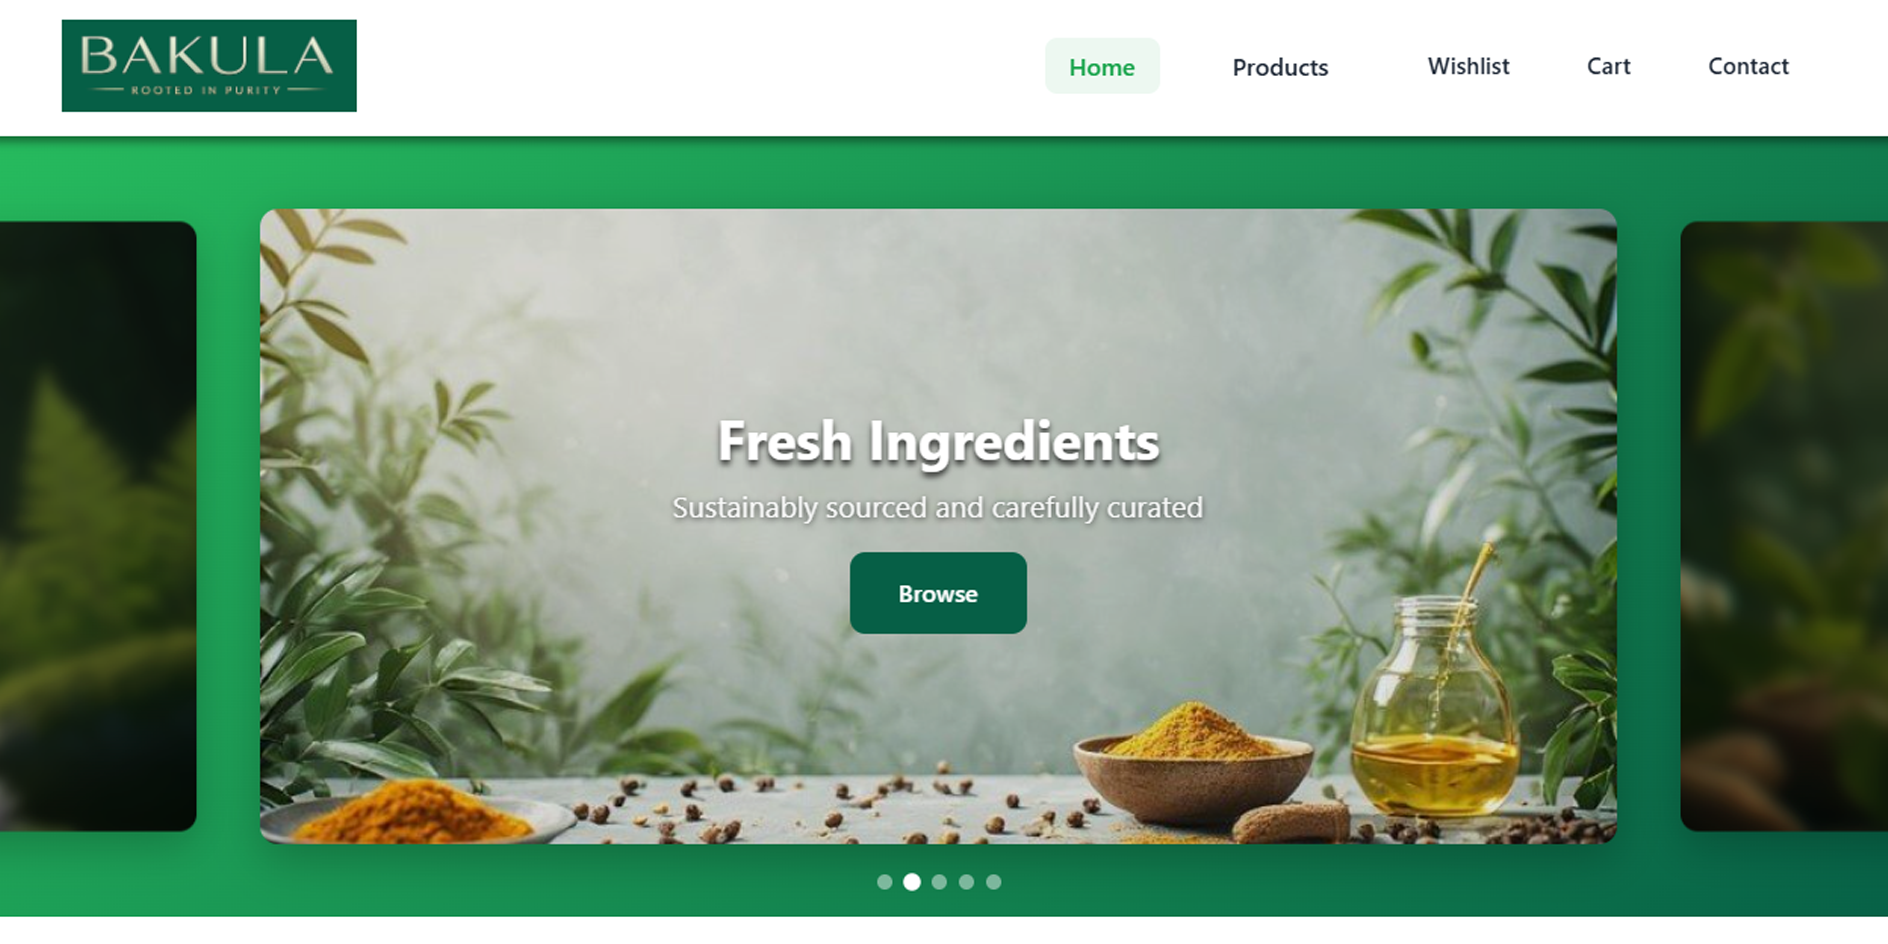
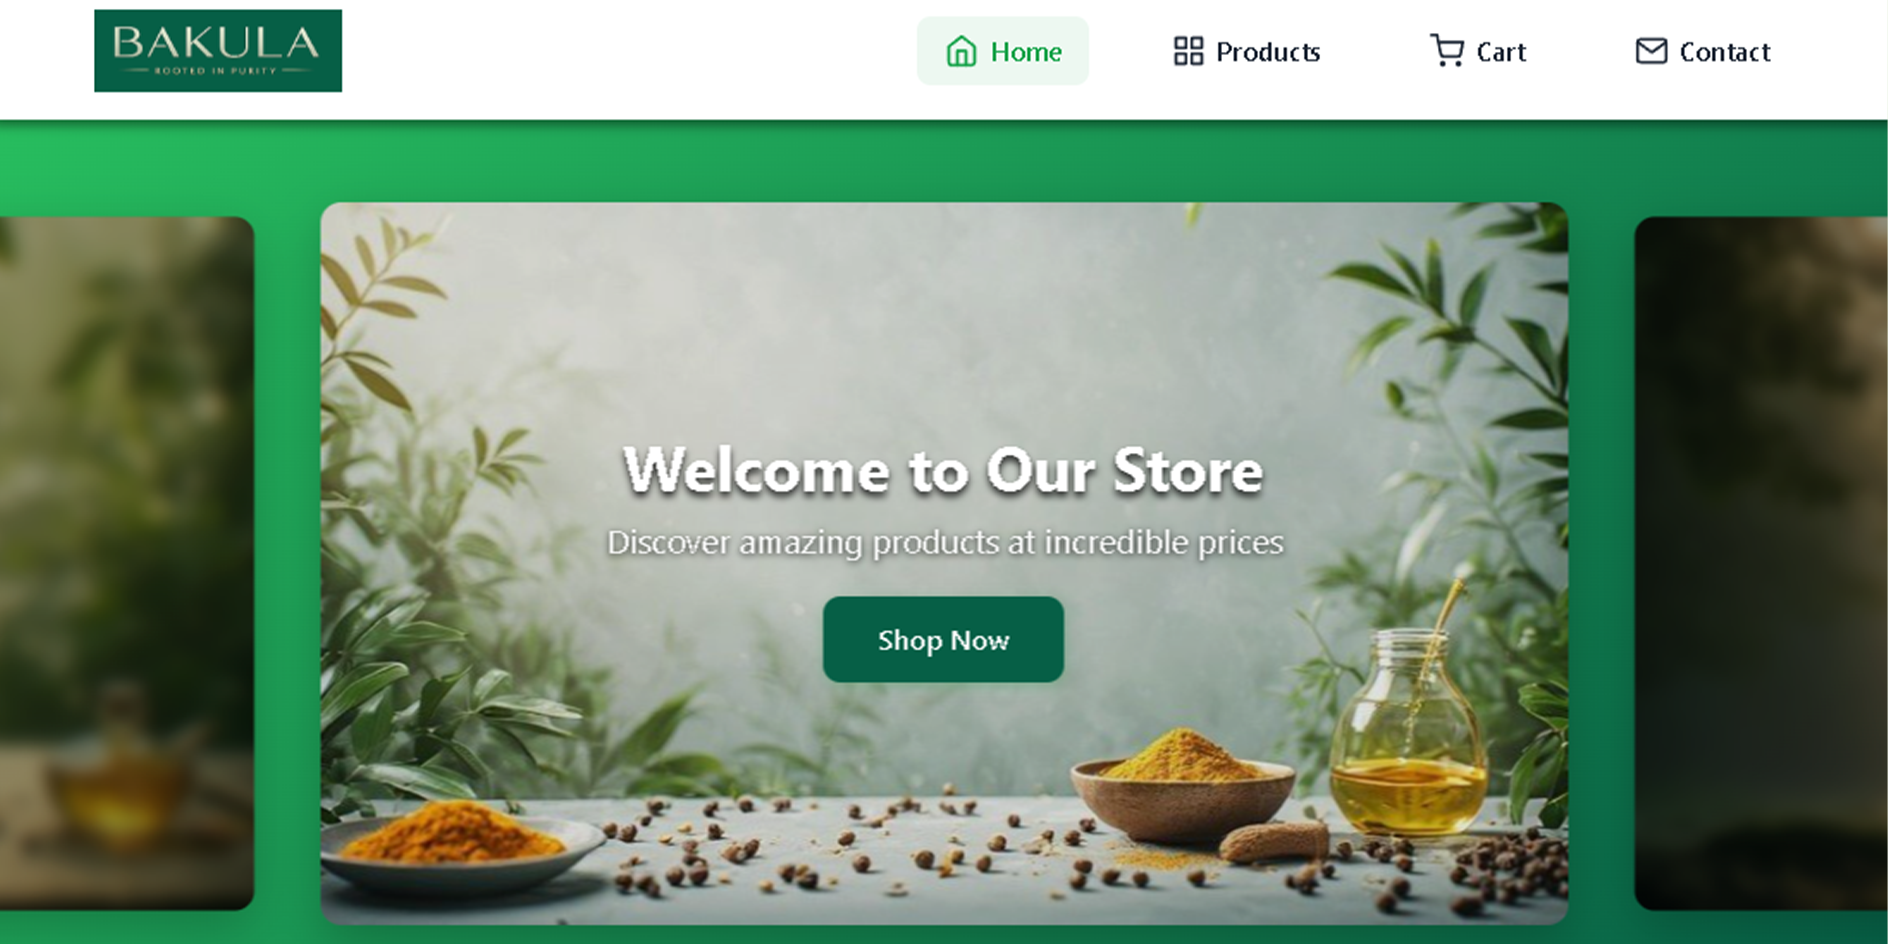
05-08-26 v1 project updated

diff --git a/index.html b/index.html
@@ -6,7 +6,7 @@
 
       <!--=============== FAVICON ===============-->
 
-      <link rel="shortcut icon" href="assets/img/favicon.png" type="image/x-icon">
+      <link rel="shortcut icon" href="Assets/Img/facicon.png" type="image/x-icon">
 
       <!--=============== REMIXICONS ===============-->
 
@@ -16,7 +16,7 @@
 
       <link rel="stylesheet" href="style.css">
 
-      <title>Responsive portfolio website - Vivek</title>
+      <title>Vivek Bhat</title>
    </head>
    <body>
 
@@ -138,10 +138,10 @@
                 </article>
 
                 <article class="work__card">
-                    <a href="https://spbott.netlify.app/" class="work__link" target="_blank" rel="noopener noreferrer">
-                        <h2 class="work__title">OTT</h2>
-                        <p class="work__description">Built a simple and stylish OTT platform—clean design, smooth functionality, and easy to use.</p>
-                        <img src="Assets/Img/ott.webp" alt="image" class="work__img">
+                    <a href="https://www.bakulahome.in/" class="work__link" target="_blank" rel="noopener noreferrer">
+                        <h2 class="work__title">Bakula</h2>
+                        <p class="work__description">An e-commerce platform for discover & purchase authentic homemade products from local creators.</p>
+                        <img src="Assets/Img/bakula.png" alt="image" class="work__img">
                         <i class="ri-arrow-right-line"></i>
                     </a>
                 </article>

diff --git a/certificates.html b/certificates.html
@@ -4,6 +4,7 @@
   <meta charset="utf-8">
   <meta name="viewport" content="width=device-width,initial-scale=1">
   <title>Vivek's Certificates</title>
+  <link rel="shortcut icon" href="Assets/Img/facicon.png" type="image/x-icon">
   <link rel="stylesheet" href="style.css">
   <link rel="stylesheet" href="certificates.css">
 </head>

diff --git a/dist/index.html b/dist/index.html
@@ -6,7 +6,7 @@
 
       <!--=============== FAVICON ===============-->
 
-      <link rel="shortcut icon" href="assets/img/favicon.png" type="image/x-icon">
+      <link rel="shortcut icon" href="Assets/Img/facicon.png" type="image/x-icon">
 
       <!--=============== REMIXICONS ===============-->
 
